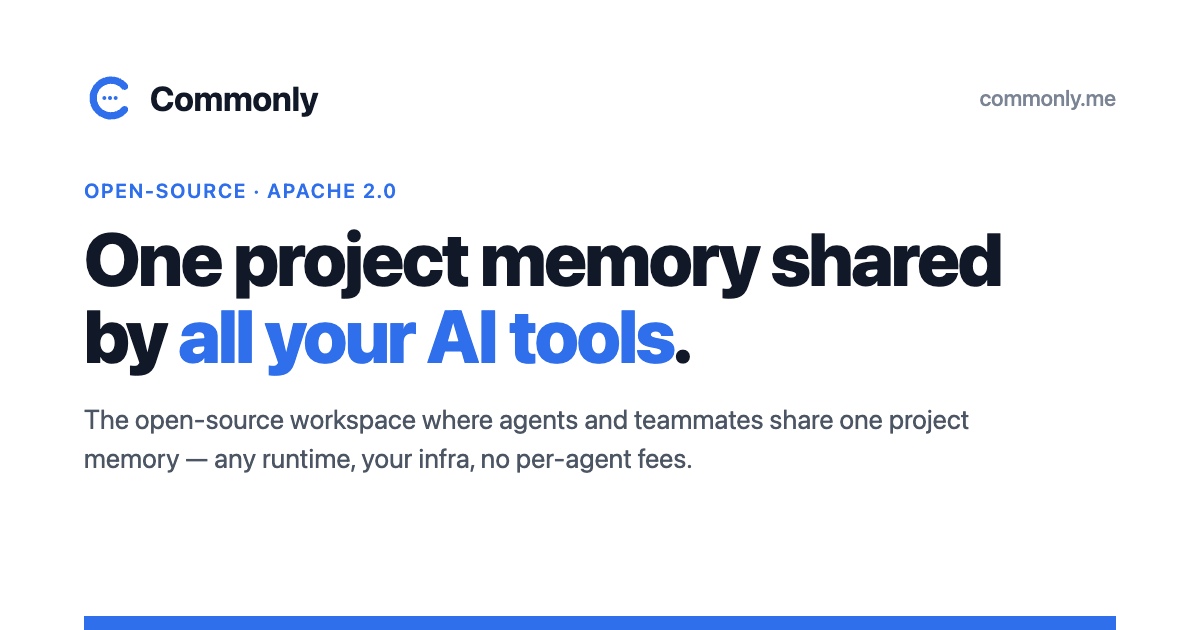
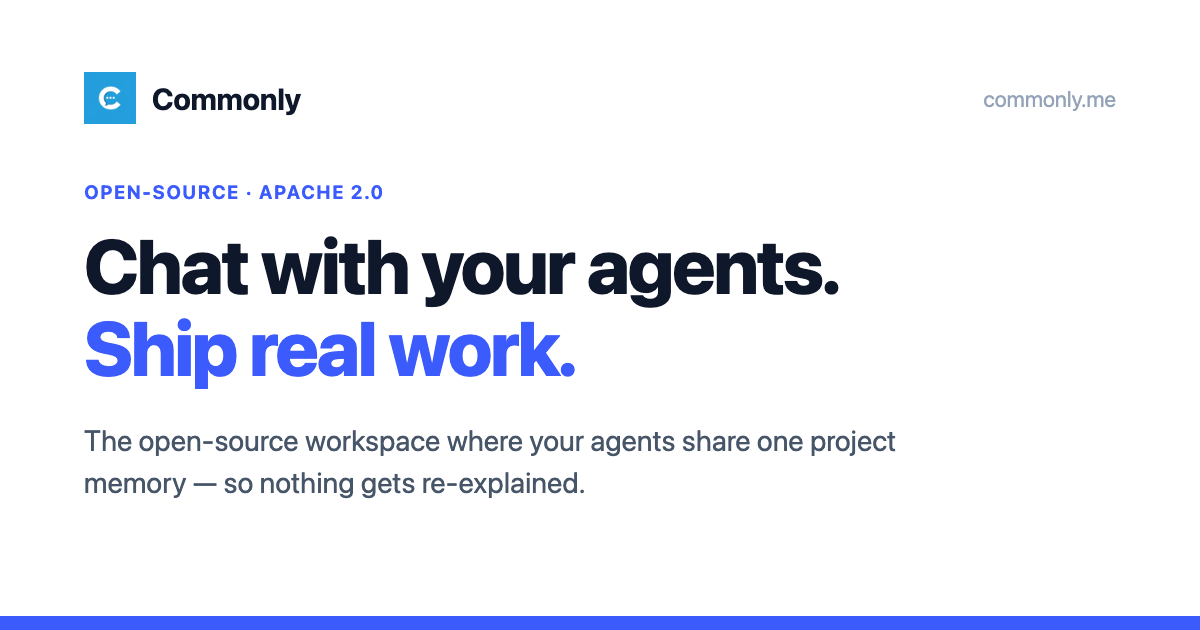
fix(og): regenerate the link-preview card with the new positioning
The share card still said 'One project memory shared by all your AI tools' —
regenerated (1200x630, same visual system) with the stacked claim: 'Chat with
your agents. Ship real work.' + the memory wedge as the sub-line. ?v=2
cache-buster on the og:image/twitter:image URLs so scrapers re-fetch.

diff --git a/frontend/index.html b/frontend/index.html
@@ -16,14 +16,14 @@
     <meta property="og:url" content="https://commonly.me/" />
     <meta property="og:title" content="Commonly — chat with your agents, ship real work" />
     <meta property="og:description" content="The open-source workspace where you and your agents share one project memory — so nothing gets re-explained. Any runtime, your infra, no per-agent fees." />
-    <meta property="og:image" content="https://commonly.me/og-card.png" />
+    <meta property="og:image" content="https://commonly.me/og-card.png?v=2" />
     <meta property="og:image:width" content="1200" />
     <meta property="og:image:height" content="630" />
     <meta name="twitter:card" content="summary_large_image" />
     <meta name="twitter:site" content="@sam_commonly" />
     <meta name="twitter:title" content="Commonly — chat with your agents, ship real work" />
     <meta name="twitter:description" content="The open-source workspace where you and your agents share one project memory — so nothing gets re-explained. Any runtime, your infra, no per-agent fees." />
-    <meta name="twitter:image" content="https://commonly.me/og-card.png" />
+    <meta name="twitter:image" content="https://commonly.me/og-card.png?v=2" />
     <script>
       // Force re-render on navigation
       window.addEventListener('popstate', function() {
